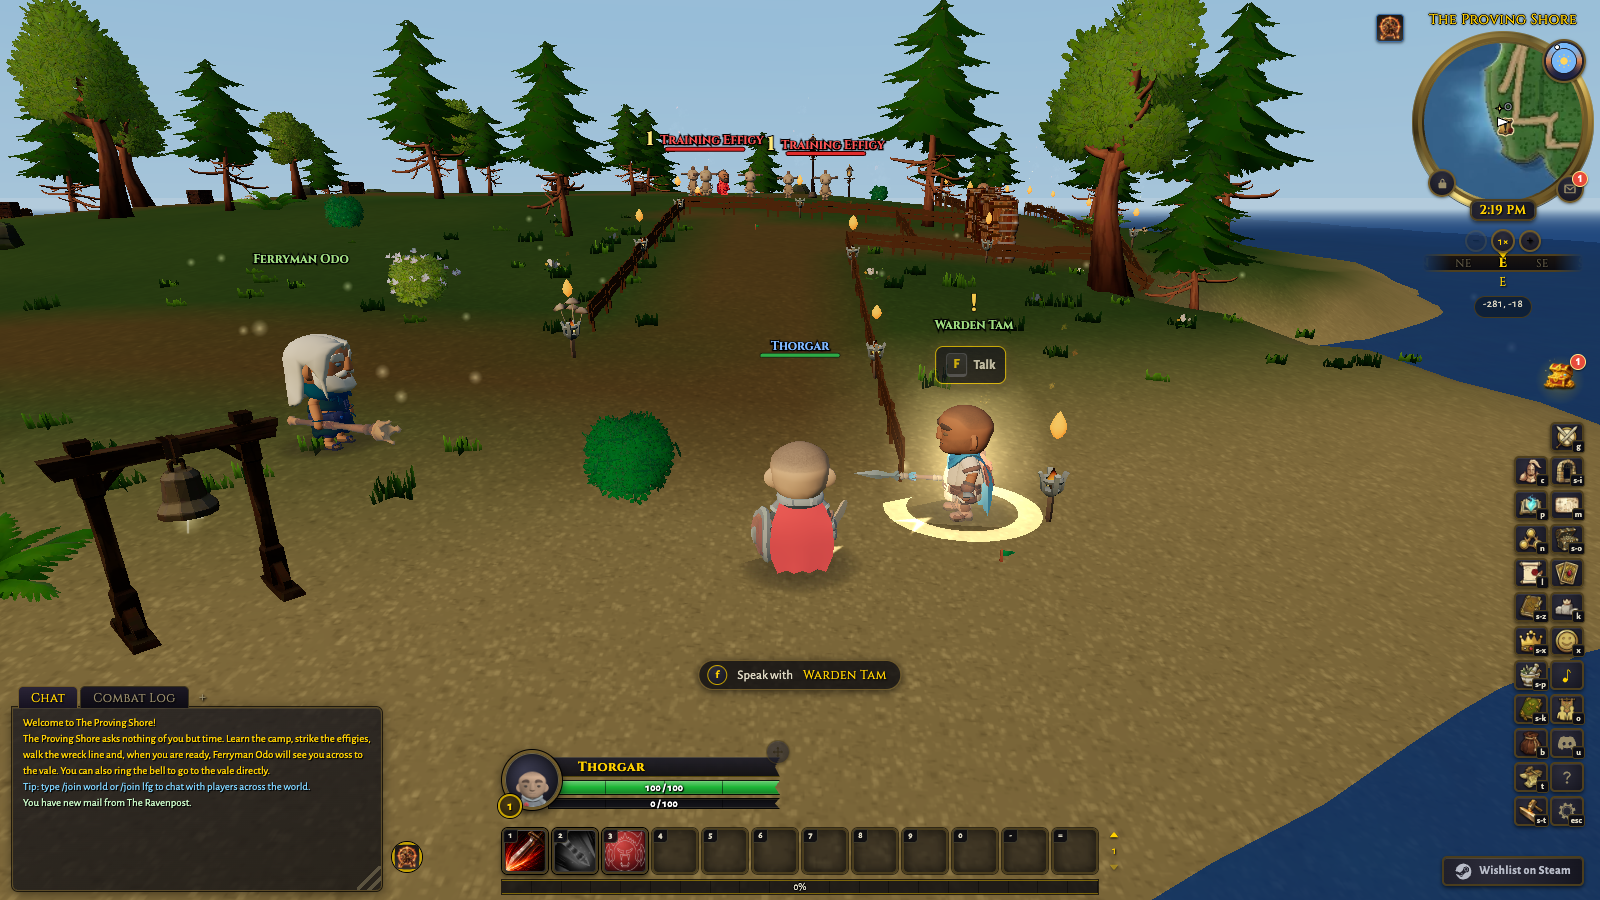
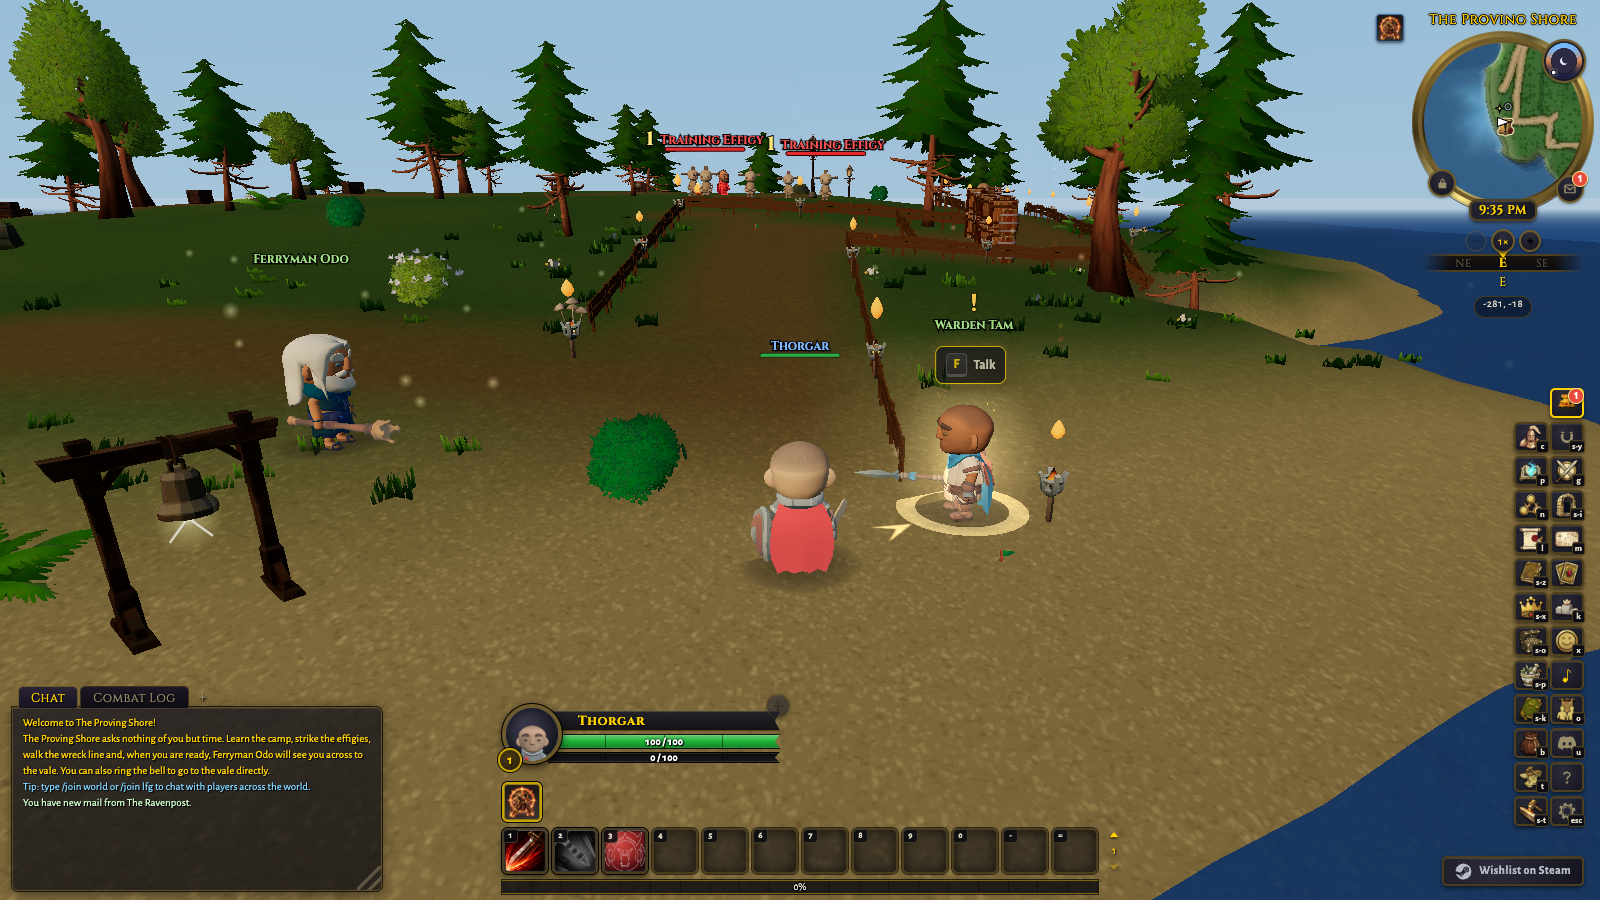
fix(hud): seat the stance row above the action bar as square sockets
Review round 3: the redesign had hung the stance row off the left edge of
the action bar as 30px round discs. It returns to its place in the bottom
stack between the player frame and the primary bar as 40px square sockets,
so showing it lifts the docked player frame by one row, and the stock
target seat lifts by the same row through body.stance-bar-shown so the
pair stays level. The coarse-pointer size token stays for touch. DESIGN.md
records the deviation from the boards.

diff --git a/src/styles/hud.css b/src/styles/hud.css
@@ -1404,7 +1404,7 @@
       var(--target-frame-scale, 1)
     );
     left: calc(50% + var(--action-rail-w) / 2 - var(--target-frame-box-w));
-    top: calc(100% - var(--unit-frame-seat-offset));
+    top: calc(100% - var(--unit-frame-seat-offset) - var(--stance-row-lift, 0px));
     display: none;
     z-index: 6;
     width: var(--target-frame-box-w);
@@ -1423,14 +1423,21 @@
      the mirrored target seat lifts by the same step and the pair stays level. */
   body.show-actionbar2 #target-frame,
   body.show-actionbar3 #target-frame {
-    top: calc(100% - var(--unit-frame-seat-offset) - var(--socket-size) - var(--socket-row-gap));
+    top: calc(
+      100% -
+      var(--unit-frame-seat-offset) -
+      var(--socket-size) -
+      var(--socket-row-gap) -
+      var(--stance-row-lift, 0px)
+    );
   }
   body.show-actionbar2.show-actionbar3 #target-frame {
     top: calc(
       100% -
       var(--unit-frame-seat-offset) -
       2 *
-      (var(--socket-size) + var(--socket-row-gap))
+      (var(--socket-size) + var(--socket-row-gap)) -
+      var(--stance-row-lift, 0px)
     );
   }
   /* The target's debuff strip hangs off the frame instead of living inside the
@@ -3932,15 +3939,18 @@
   .pet-btn.cooldown.autocast {
     filter: grayscale(0.45) brightness(0.78);
   }
-  /* Stance-style choice bar: warrior stances and paladin auras share this exact
-     row beside the action bars (JS flips it to flex when applicable). */
+  /* Stance-style choice bar: warrior stances and paladin auras share this row,
+     a child of the bottom stack between the player frame and the action bars
+     (JS flips it to flex when applicable), so showing it lifts the docked
+     player frame by one row; body.stance-bar-shown lifts the target seat too. */
   #stancebar {
     display: none;
-    position: absolute;
-    left: -110px;
-    bottom: calc(var(--xp-rail-h) + var(--socket-row-gap) + var(--spacing-2xs));
-    margin: 0;
+    align-self: flex-start;
+    margin: 0 0 var(--socket-row-gap);
     padding: 0;
+  }
+  body.stance-bar-shown {
+    --stance-row-lift: calc(var(--socket-size-stance) + var(--socket-row-gap));
   }
   .stancebar-group {
     display: flex;

diff --git a/src/ui/hud/stance/stance_bar_controller.ts b/src/ui/hud/stance/stance_bar_controller.ts
@@ -27,6 +27,8 @@ import { stanceRadialView } from './stance_radial_core';
 
 const GROUP_CLASS = 'stancebar-group';
 const BUTTON_CLASS = 'stance-btn ui-socket ui-socket--stance';
+/** Stamped while the row is up: the stock target-frame seat lifts by one stance row off it. */
+const SHOWN_BODY_CLASS = 'stance-bar-shown';
 const ACTIVE_CLASS = 'active';
 const ICON_CLASS = 'icon-label ui-socket-art';
 const ARIA_PRESSED_ATTR = 'aria-pressed';
@@ -121,6 +123,7 @@ export class StanceBarController {
   private clearRow(): void {
     const { bar } = this.deps;
     bar.style.display = 'none';
+    document.body.classList.remove(SHOWN_BODY_CLASS);
     if (this.lastRowSig !== '') {
       bar.querySelector(`.${GROUP_CLASS}`)?.remove();
       this.lastRowSig = '';
@@ -134,6 +137,7 @@ export class StanceBarController {
       return;
     }
     bar.style.display = 'flex';
+    document.body.classList.add(SHOWN_BODY_CLASS);
     if (model.sig === this.lastRowSig) return;
     this.lastRowSig = model.sig;
     bar.querySelector(`.${GROUP_CLASS}`)?.remove();

diff --git a/src/styles/library.css b/src/styles/library.css
@@ -768,12 +768,9 @@
   }
   .ui-socket--stance {
     --ui-socket-size: var(--socket-size-stance);
-    border-radius: 50%;
   }
-  /* The stance disc is the one socket species that draws below the 40px touch
-     floor. Grow the box (not a hit extension) on a coarse pointer: the row's
-     4px gap is narrower than the reach a pseudo-element would need, so an
-     extension would overlap its neighbours instead of separating them. */
+  /* The stance socket keeps its own coarse-pointer size token so a touch device
+     can grow the box (not a hit extension) independently of the desktop row. */
   @media (pointer: coarse) {
     .ui-socket--stance {
       --ui-socket-size: var(--socket-size-stance-coarse);
@@ -781,7 +778,7 @@
   }
   .ui-socket--stance > img,
   .ui-socket--stance > .ui-socket-art {
-    border-radius: 50%;
+    border-radius: calc(var(--radius-cell) - 2px);
     inset: var(--spacing-2xs);
     width: calc(100% - 2 * var(--spacing-2xs));
     height: calc(100% - 2 * var(--spacing-2xs));

diff --git a/tests/stance_control_controller.test.ts b/tests/stance_control_controller.test.ts
@@ -231,6 +231,8 @@ describe('StanceBarController chooses the shape', () => {
     const rig = makeBar(false);
     rig.controller.render();
     expect(rig.bar.style.display).toBe('flex');
+    // The stock target seat lifts by one stance row while the bar is up.
+    expect(document.body.classList.contains('stance-bar-shown')).toBe(true);
     const buttons = [
       ...rig.bar.querySelectorAll<HTMLButtonElement>('.stancebar-group .stance-btn'),
     ];
@@ -252,6 +254,7 @@ describe('StanceBarController chooses the shape', () => {
     // The inline write is what outranks any display the desktop path left behind
     // on a mid-session flip; the sheet's own display:none is the belt.
     expect(rig.bar.style.display).toBe('none');
+    expect(document.body.classList.contains('stance-bar-shown')).toBe(false);
     expect(rig.bar.querySelector('.stance-btn')).toBeNull();
     expect(rig.anchor?.getAttribute('aria-label')).toBe(`stance name:${STANCES[0]}`);
   });

diff --git a/src/styles/tokens.css b/src/styles/tokens.css
@@ -787,7 +787,7 @@
     --socket-art-inset: 1px;
     --socket-size-bag: 40px;
     --socket-size-bank: 32px;
-    --socket-size-stance: 30px;
+    --socket-size-stance: 40px;
     --action-rail-w: calc(12 * var(--socket-size) + 11 * var(--socket-gap));
     --aura-size: 28px;
     --aura-size-own: 30px;
@@ -1082,9 +1082,8 @@
     --color-woc-store-hero-hi: #030a10;
     --color-woc-store-hero-lo: #04111b;
     /* target size */
-    /* Stance disc on a coarse pointer: the 40x40 box the shipped desktop
-       stance button carried, so a touch device keeps the WCAG 2.5.5 floor the
-       30px board disc would lose. */
+    /* Stance socket on a coarse pointer: the same 40px box, kept as its own
+       token so touch can diverge from the desktop row without a rule rewrite. */
     --socket-size-stance-coarse: 40px;
     /* character window stage */
     /* Scrim under the paperdoll socket columns where they float over the live 3D

diff --git a/tests/client_shell.test.ts b/tests/client_shell.test.ts
@@ -3576,7 +3576,9 @@ describe('the stock unit-frame seats sit side by side above the action bar', () 
     expect(hudCss).toContain(
       'left: calc(50% + var(--action-rail-w) / 2 - var(--target-frame-box-w));',
     );
-    expect(hudCss).toContain('top: calc(100% - var(--unit-frame-seat-offset));');
+    expect(hudCss).toContain(
+      'top: calc(100% - var(--unit-frame-seat-offset) - var(--stance-row-lift, 0px));',
+    );
     expect(hudCss).not.toContain('#target-frame {\n    left: 12px;\n    top: 12px;');
   });
 

diff --git a/DESIGN.md b/DESIGN.md
@@ -545,8 +545,11 @@ hotbar drag-and-drop and no backing plate.
 - Sockets are 46px (`--socket-size`) on a 4px gap (`--socket-gap`), with rows 6px apart
   (`--socket-row-gap`). The socket's own key chip sits at the top left; stack count stays
   bottom right.
-- Page chevrons and the row number sit outside the right edge. A cluster of round 30px
-  stance sockets hangs off the left edge.
+- Page chevrons and the row number sit outside the right edge. ACCEPTED DEVIATION: the
+  boards hung a cluster of round 30px stance sockets off the left edge; the shipped row is
+  40px square stance sockets seated inside the bottom stack above the primary bar, so showing
+  it lifts the player frame (and, via `body.stance-bar-shown`, the stock target seat) by one
+  row instead of floating beside the bar.
 - States (existing states, restyle only): ready, hover, pressed, cooldown sweep plus
   remaining seconds, `.is-used` proc glow, `.is-oor` out-of-range tint,
   `.is-unusable` desaturation, queued, `.is-empty`, and drop target.
